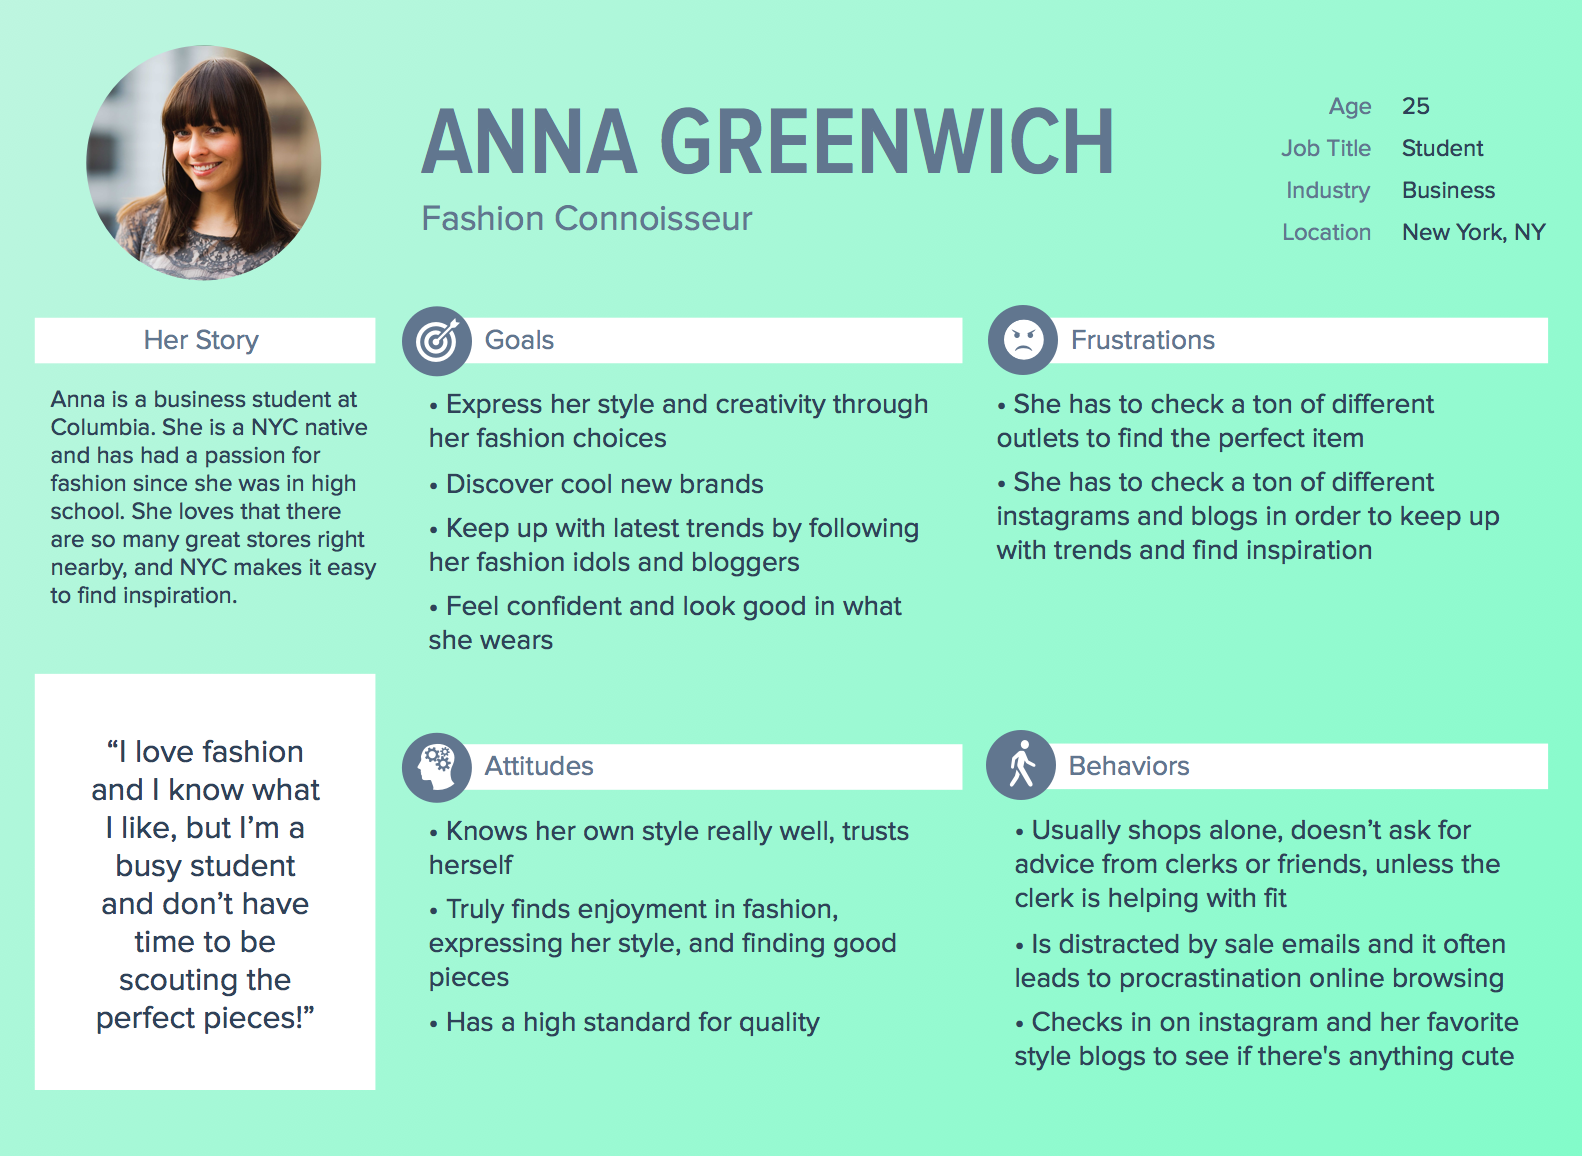
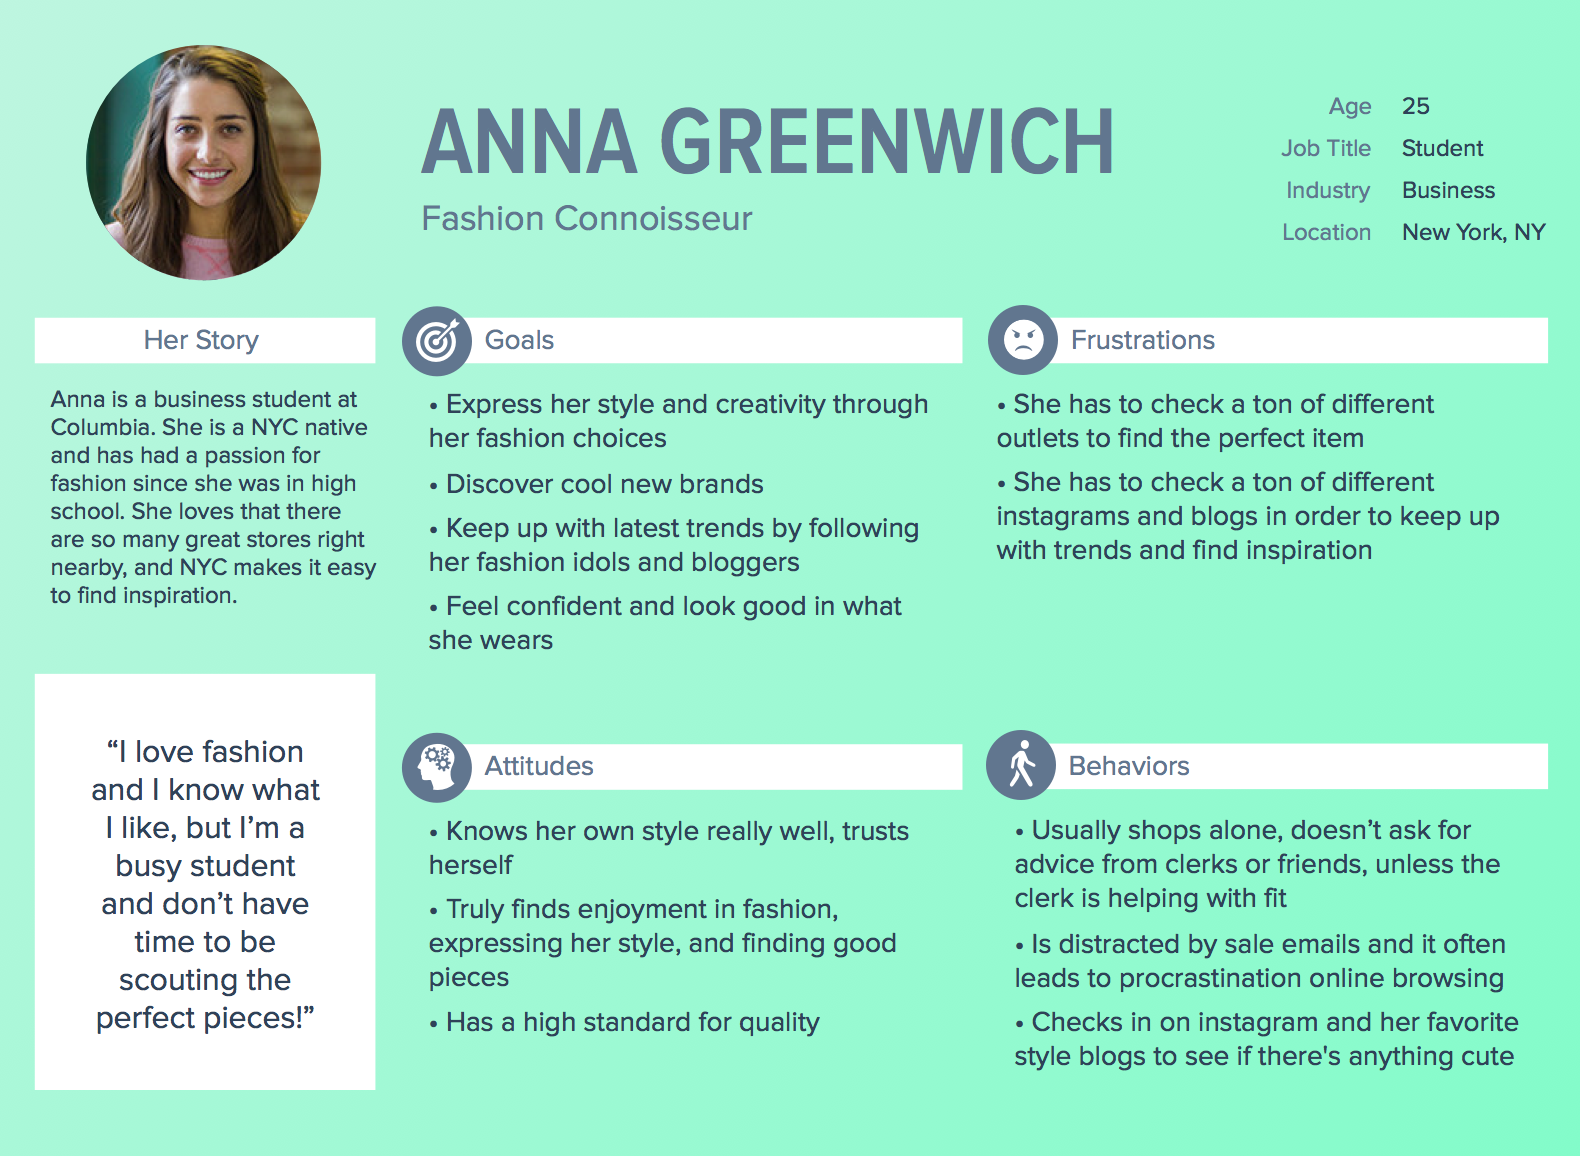
getting rid of extra snapsale stuff in retail

diff --git a/retail.html b/retail.html
@@ -138,8 +138,8 @@
            
      <div class="wrapper">
         	<ul class="gallery gallery-col2 spaced">
-						<li class="has-animation"><a href="files/uploads/snapsalelogo.png" data-rel="lightcase"><img src="files/uploads/snapsalelogo.png" alt="snapsale logo"/></a></li>
-						<li class="has-animation" data-delay="200"><a href="files/uploads/snapsalewhiteboard.png" data-rel="lightcase"><img src="files/uploads/snapsalewhiteboard.png" alt="snapsale whiteboard"/></a></li>
+						<li class="has-animation"><a href="files/uploads/annapersona.png" data-rel="lightcase"><img src="files/uploads/annapersona.png" alt="snapsale logo"/></a></li>
+						<li class="has-animation" data-delay="200"><a href="files/uploads/danipersona.png" data-rel="lightcase"><img src="files/uploads/danipersona.png" alt="snapsale whiteboard"/></a></li>
             </ul>
 		</div>
    
@@ -148,16 +148,17 @@
     <div class="wrapper-small">                 	
                       	           	           	
             <h6><strong>The Problem</strong></h6>
-            <p>From a shopper’s point of view, flash sales are pretty awesome, but who likes opening an email about a sale for their favorite store… 1 hour after it’s ended? And as a merchant, planning for them is tedious — as a customer, waiting around for them isn’t too fun either. We saw an opportunity to game-ify flash sales to make them more fun and easy for both merchants and customers.</p>
+            <p></p>
             
             
             <h6><strong>Constraints</strong></h6>
-            <p>With less than two days to come up with an idea and build a polished, presentable proof of concept, we needed to move fast. This was made even more difficult by the fact that we needed to build something in React Native, which was new to all 4 of the developers on my team. Also, with such an intense time constraint, we couldn’t spend too much time on research and ideation. We needed to iron out a solid idea and wireframe the user flow so that the developers could start coding immediately. If we had more time, we could have spent it on doing user research on our target audience, and testing out prototypes to find the kinks in our design. Unfortunately, we needed to lock down the basic flow early on, so only 25% of my time was spent on defining the user experience, and the rest was on designing the branding and UI.</p>
+            <p>.</p>
             
 		</div>
          
          <div class="spacer spacer-small"></div>
           
+<!--
            <div class="wrapper">
            	<ul class="gallery spaced">
 							<li class="has-animation"><a href="files/uploads/snapsaleflow.png" data-rel="lightcase"><img src="files/uploads/snapsaleflow.png" alt="snapsale flow"/></a></li>
@@ -165,20 +166,17 @@
            </div>
            
 		<div class="spacer spacer-small"></div>
+-->
            
            <div class="wrapper-small">
             
             <h6><strong>Designing the User Experience</strong></h6>
-            <p class="alttitle">Merchant perspective</p>
-            <p>If I am a merchant who wants to reach more impulse-buy customers through the Snapsale app, all I need to do is go to the Shopify app store to integrate it into my store admin. Now in my admin I will have a Snapsale page, which shows me any current Snapsales I may have running, along with any past sales. Both current sales and past sales will show me interesting statistics, including how much time left (for current sales), my stock level, how many people have opened the snapsale, and how much money earned from the sale. When making a new sale, I simply decide the product I want to use (making sure my stock is high enough), and then I decide the sale price and the amount of time I want it to be available (default is 24 hours).</p>
-            <p class="alttitle">Customer perspective</p>
-            <p>If I am a customer who wants to discover new products and amazing deals, then all I have to do is download Snapsale and wait for merchants to send out sales. The app needs to be fun and simple to use so that customers are delighted when they discover a great deal on a cool product, and feel rewarded when they make a purchase. There’s no required login or forms until you make a purchase, so users can see the value of the app and become invested before the app presents them with the entering-information obstacle. When a merchant sends out a snapsale, it shows up on my home screen showing which store it is from and how much time I have left to open it (usually 24 hours, but it can be however long the merchant wants the flash sale to be available). When I open a snapsale, I see a photo of the product, its price (including how much I’m saving). I have 60 seconds to make a decision, with the time counting down in the corner. If I want to learn more, I can click on the info button, which will pause the timer. There I can read the product description, the store name, and see available product options (e.g. size or color). If I don’t want to buy it, I can dismiss it and it disappears from my home screen. Otherwise, I can click the buy button. If this is my first time making a purchase, it will ask me for my payment and shipping info. Now it will be saved, so I don’t have to do it again. However, I can always edit this in my profile. Now there is a success message which tells me that my product is on its way, and the day it is going to arrive. Yay! Impulse buying and product discovery made fun and easy. (Almost too easy?)</p>
-            <p class="alttitle">The Process</p>
-            <p>To design these flows, I thought about job stories, or objectives that they each needed to accomplish, and broke those larger goals down into finite steps. I brainstormed screens that could facilitate this flow of actions and make sense going from step to step.</p>
+            
 		</div>
             
    <div class="spacer spacer-small"></div>
           
+<!--
            <div class="wrapper">
            	<ul class="gallery spaced">
 							<li class="has-animation"><a href="files/uploads/journeys.png" data-rel="lightcase"><img src="files/uploads/journeys.png" alt="snapsale journeys"/></a></li>
@@ -186,16 +184,12 @@
            </div>
            
 		<div class="spacer spacer-small"></div>
-           <div class="wrapper-small">
-            
-            <h6><strong>Designing the branding and UI</strong></h6>
-            <p>I wanted Snapsale’s visual identity to convey the feeling of excitement, playfulness, speed, and joy. It needed to be clean and focused, with minimal distractions and only a few actions on each page. Each page needed to have a clear purpose, with a consistency between pages.</p>
-            <p class="alttitle">The Process</p>
-            <p>From my wireframes, I went straight into high-fidelity mockups in Sketch (due to the time constraint of the project).</p>
-		</div>
+-->
+         
     
            <div class="spacer spacer-small"></div>
                   
+<!--
     <div class="wrapper">
 				<ul class="gallery gallery-col3 spaced">
 					<li class="has-animation"><a href="files/uploads/snapsaledetail2.png" data-rel="lightcase"><img src="files/uploads/snapsaledetail2.png" alt="snapsale detail"/></a></li>
@@ -205,27 +199,28 @@
 		</div>
    
    	<div class="spacer spacer-small"></div>
+-->
    	
     <div class="wrapper-small">       
             <h6><strong>Scalability</strong></h6>
-            <p>Currently, customers would receive snapsales from all stores that send them out. However, once Snapsale grows, we don’t want to overwhelm customers with a barrage of sales of things they may not remotely interest them. To fix this, stores could be broken down into genres (women’s clothing, men’s sportswear, jewelry, etc.) and customers could follow whatever genres they are interested in. Another option is a learning algorithm, which shows snapsales to users most likely to buy them based on past purchases.</p>
+            <p></p>
             
             <h6><strong>Next steps</strong></h6>
-            <p>If I had more time, I would have loved to make a working prototype in Principle or Flinto, because I think a lot of the fun of interacting with the app will be in its subtle but delightful animations. For example, when a customer makes a purchase, a joyful animation (along with fun copy), would create a subconscious emotional reward.<br><br>
+            <p><br><br>
 
-Another thing to design would be the onboarding, or the first-time-user experience. How do we show the value app quickly to new users? How do they learn the flow of the app? How do we lead them to their first purchase and get them hooked?<br><br>
-
-The more obvious next step, of course, is actually building both the mobile app and its integration with Shopify. To be continued!</p>
+<p>To be continued!</p>
 		</div> <!-- END .wrapper -->
 
         <div class="spacer spacer-small"></div>
 
         <div class="wrapper">
-        	
-            <ul class="gallery spaced">
-							<li class="has-animation"><a href="files/uploads/snapsalemockup.png" data-rel="lightcase"><img src="files/uploads/snapsalemockup.png" alt="snapsale mockup"/></a></li>
+   <!--     	
+           <ul class="gallery spaced">
+
+							<li class="has-animation"><a href="files/uploads/es21thumb.png" data-rel="lightcase"><img src="files/uploads/es21thumb.png" alt="snapsale mockup"/></a></li>
             </ul>
             
+-->
         </div> <!-- END .wrapper-mini -->
 
         <!-- Single Pagination -->
